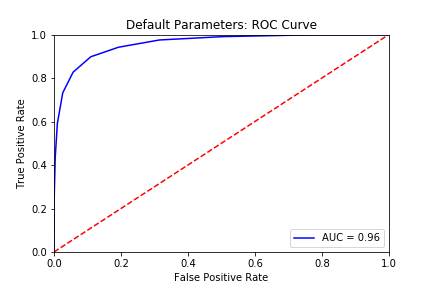
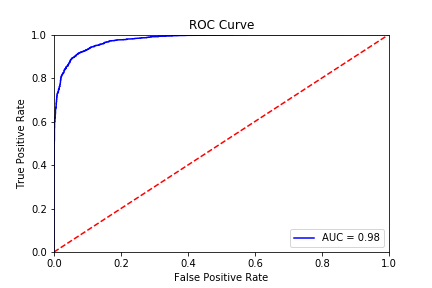
ok the nightmaare is over

Changed region(s): [[0.1204, 0.0625, 0.7523, 0.5625], [0.8426, 0.8125, 0.8727, 0.8438]]

diff --git a/eeg_midterm_randomforest.py b/eeg_midterm_randomforest.py
@@ -18,7 +18,7 @@ y = eeg.ix[:,14].values
 
 X_train, X_test, y_train, y_test = train_test_split(X, y, test_size=.3, random_state=420)
 # n_estimators = 100
-tree_classf = RandomForestClassifier(n_estimators=10)
+tree_classf = RandomForestClassifier(n_estimators=64, max_depth=20)
 tree_classf.fit(X_train, y_train)
 
 
@@ -58,7 +58,7 @@ fpr_test, tpr_test, threshold_test = roc_curve(y_test, y_preds_test)
 roc_auc_test = auc(fpr_test, tpr_test)
 
 # Plot it all
-plt.title('Default Parameters: ROC Curve')
+plt.title('ROC Curve')
 plt.plot(fpr_test, tpr_test, 'b', label = 'AUC = %0.2f' % roc_auc_test)
 plt.plot()
 plt.legend(loc = 'lower right')
